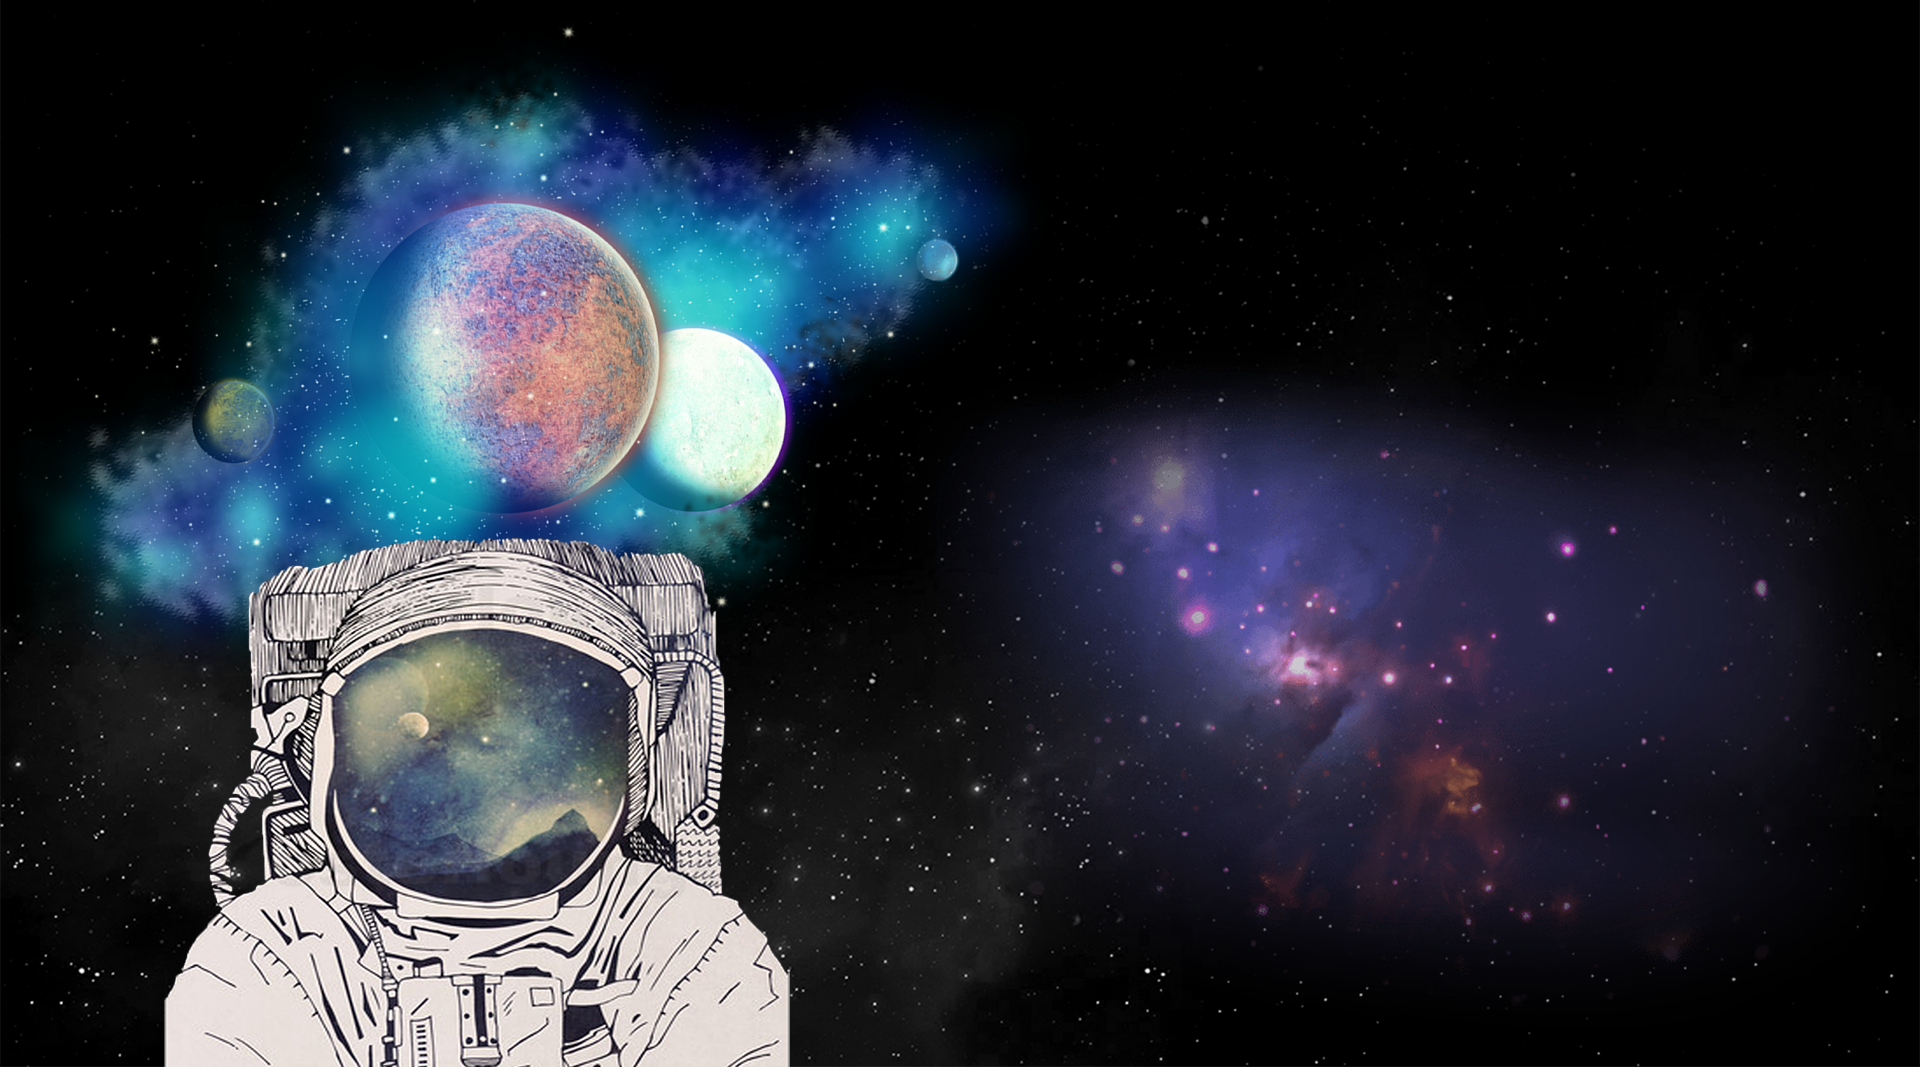
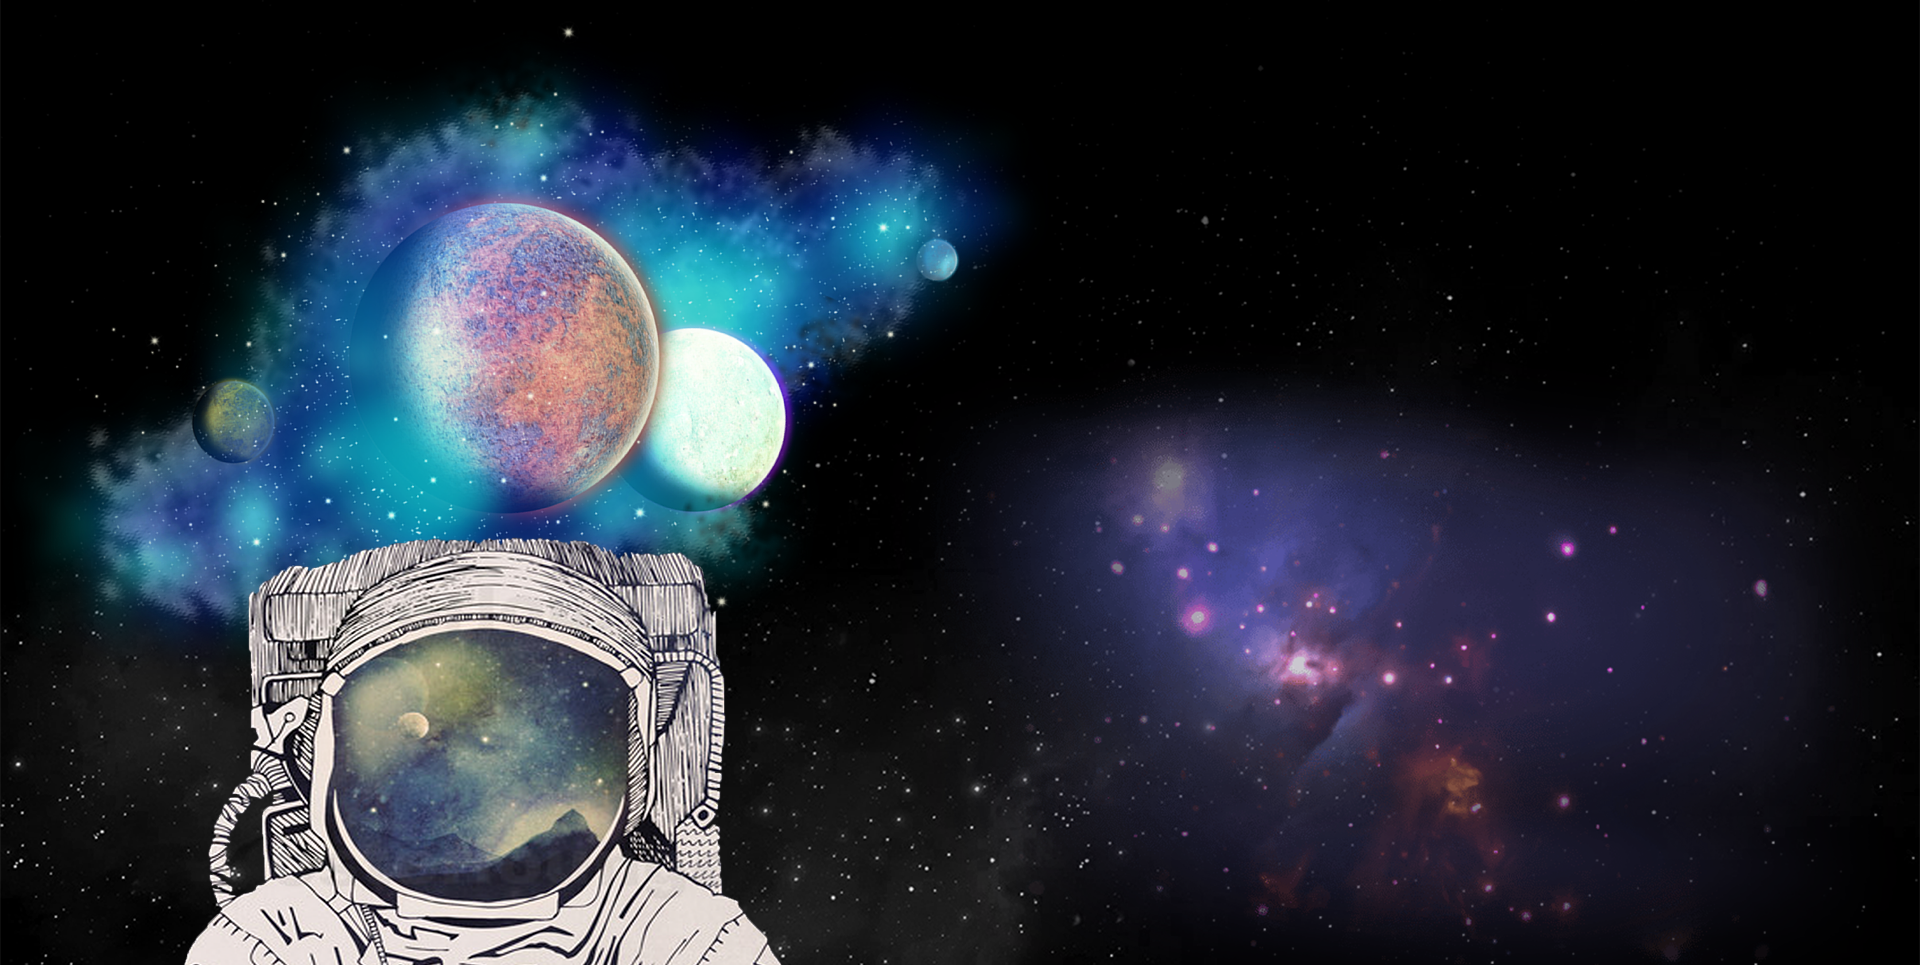
divers modif css

diff --git a/components/pages/home/Home.js b/components/pages/home/Home.js
@@ -8,14 +8,19 @@ import Section from "../../../styles/pages/home/Section";
 const Home = ({ isMobile }) => {
   return (
     <Section
-      className="test"
       image={
         isMobile ? "/images/fond-etoile-mobile.png" : "/images/fond-etoile.png"
       }
+      justifyContent={isMobile ? "center" : "flex-end"}
     >
       <Ombre
-        border={isMobile ? "0.1px solid rgba(115, 115, 115, 0.3)" : "none"}
-        backgroundColor={isMobile ? "rgba(0, 0, 0, 0.3)" : "none"}
+        border={
+          isMobile
+            ? "0.1px solid rgba(115, 115, 115, 0.3)"
+            : "0.1px solid rgba(115, 115, 115, 0.3)"
+        }
+        backgroundColor={isMobile ? "rgba(0, 0, 0, 0.3)" : "rgba(0, 0, 0, 0.3)"}
+        width={isMobile ? "90vw" : "50rem"}
       >
         <TitleWhite className="titleWhite mt-3">
           DÉVELOPPEUR WEB HTML & CSS <br /> REACT - SYMFONY

diff --git a/components/pages/home/Galaxy.js b/components/pages/home/Galaxy.js
@@ -6,10 +6,11 @@ import TitleWhite from "../../../styles/global/TitleWhite";
 const Galaxy = ({ isMobile }) => {
   console.log(isMobile);
   return (
-    <Section className="test" image="/images/fond-etoile-planete-mobile.png">
+    <Section image="/images/fond-etoile-planete-mobile.png">
       <Ombre
         border={isMobile ? "0.1px solid rgba(115, 115, 115, 0.3)" : "none"}
         backgroundColor={isMobile ? "rgba(0, 0, 0, 0.3)" : "none"}
+        width={isMobile ? "90vw" : "50rem"}
       >
         <TitleWhite className="mt-2">Galaxy Isyade</TitleWhite>
         <div className="container_multi">

diff --git a/styles/pages/home/Ombre.js b/styles/pages/home/Ombre.js
@@ -5,12 +5,12 @@ const Ombre = styled.div`
   display: flex;
   flex-direction: column;
   height: 95vh;
-  width: 90vw;
-  margin: 0 auto;
+  width: ${(props) => props.width};
   background-color: ${(props) => props.backgroundColor};
   border: ${(props) => props.border};
   align-items: center;
   overflow: hidden;
+  z-index: 1;
 
   .titleWhite {
     text-align: center;
@@ -50,7 +50,9 @@ const Ombre = styled.div`
       line-height: 45px;
     }
   }
+
   @media (min-width: ${breakpoints.large}) {
+    margin-top: -40px;
     .img_astronaute {
       height: 37rem;
       width: 100%;

diff --git a/styles/pages/home/Section.js b/styles/pages/home/Section.js
@@ -1,4 +1,5 @@
 import styled from "styled-components";
+import breakpoints from "../../helpers/breakpoints";
 
 const Section = styled.section`
   height: 100vh;
@@ -6,6 +7,12 @@ const Section = styled.section`
   background-repeat: no-repeat;
   background-size: cover;
   width: 100%;
+  display: flex;
+  justify-content: center;
+
+  @media (min-width: ${breakpoints.large}) {
+    justify-content: flex-end;
+  }
 `;
 
 export default Section;

diff --git a/styles/global/navbar/Header.js b/styles/global/navbar/Header.js
@@ -7,7 +7,7 @@ const Header = styled.header`
   background-color: black;
   box-shadow: 1px 1px 4px 0 rgba(0, 0, 0, 0.1);
   width: 100%;
-  z-index: 3;
+  position: relative;
 
   a {
     color: white;
